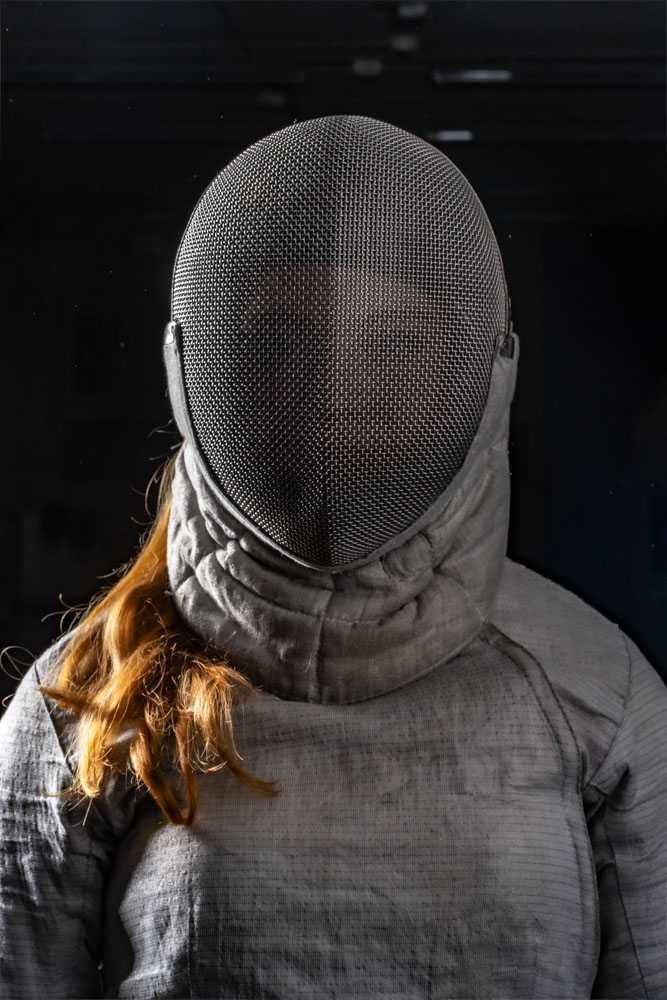
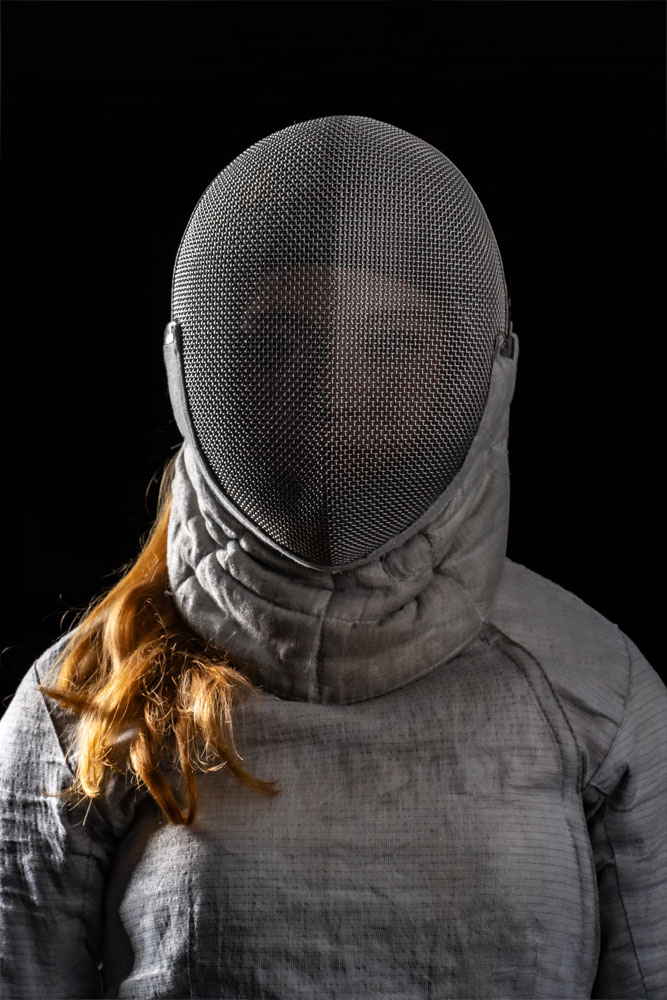
Refactor code structure and remove redundant sections for improved readability and maintainability

diff --git a/esgrima.html b/esgrima.html
@@ -13,8 +13,8 @@
     <meta property="og:title" content="Esgrima 3c · Exposición fotográfica" />
     <meta property="og:description" content="Retratos de estudiantes de la Academia Internacional de Esgrima (AIE), en Barajas. Proyecto del grupo 3c de PIC.A Escuela Internacional de Fotografía Alcobendas." />
     <meta property="og:url" content="https://giovannyarias.com/esgrima" />
-    <meta property="og:image" content="https://giovannyarias.com/esgrima/social-cover.jpg?v=DSC9117" />
-    <meta property="og:image:secure_url" content="https://giovannyarias.com/esgrima/social-cover.jpg?v=DSC9117" />
+    <meta property="og:image" content="https://giovannyarias.com/esgrima/social-cover.jpg?v=DSC8938" />
+    <meta property="og:image:secure_url" content="https://giovannyarias.com/esgrima/social-cover.jpg?v=DSC8938" />
     <meta property="og:image:type" content="image/jpeg" />
     <meta property="og:image:width" content="1200" />
     <meta property="og:image:height" content="630" />
@@ -23,7 +23,7 @@
     <meta name="twitter:card" content="summary_large_image" />
     <meta name="twitter:title" content="Esgrima 3c · Exposición fotográfica" />
     <meta name="twitter:description" content="Retratos de estudiantes de la Academia Internacional de Esgrima (AIE), en Barajas. Proyecto del grupo 3c de PIC.A Escuela Internacional de Fotografía Alcobendas." />
-    <meta name="twitter:image" content="https://giovannyarias.com/esgrima/social-cover.jpg?v=DSC9117" />
+    <meta name="twitter:image" content="https://giovannyarias.com/esgrima/social-cover.jpg?v=DSC8938" />
     <meta name="twitter:image:alt" content="Esgrima 3c. Detrás de la careta, una mirada. Retrato de un estudiante con careta de esgrima sobre fondo negro." />
 
     <!-- Google tag (gtag.js) -->

diff --git a/src/pages/Esgrima.tsx b/src/pages/Esgrima.tsx
@@ -244,13 +244,13 @@ export default function Esgrima() {
                     </span>
                   </Link>
                   <p className="esgrima__series-note">
-                    {photos.length} fotografías <span aria-hidden="true">/</span> Una mirada colectiva
+                    {photos.length + maskPhotos.length} fotografías <span aria-hidden="true">/</span> Una mirada colectiva
                   </p>
                 </div>
                 <figure className="esgrima__intro-figure">
                   <div className="esgrima__intro-image-wrap">
                     <img
-                      src="/esgrima/photos/mask/_DSC9117.jpg"
+                      src="/esgrima/photos/mask/_DSC8938.jpg"
                       alt="Retrato de un estudiante de esgrima con careta, iluminado sobre fondo negro"
                       width="667"
                       height="1000"
